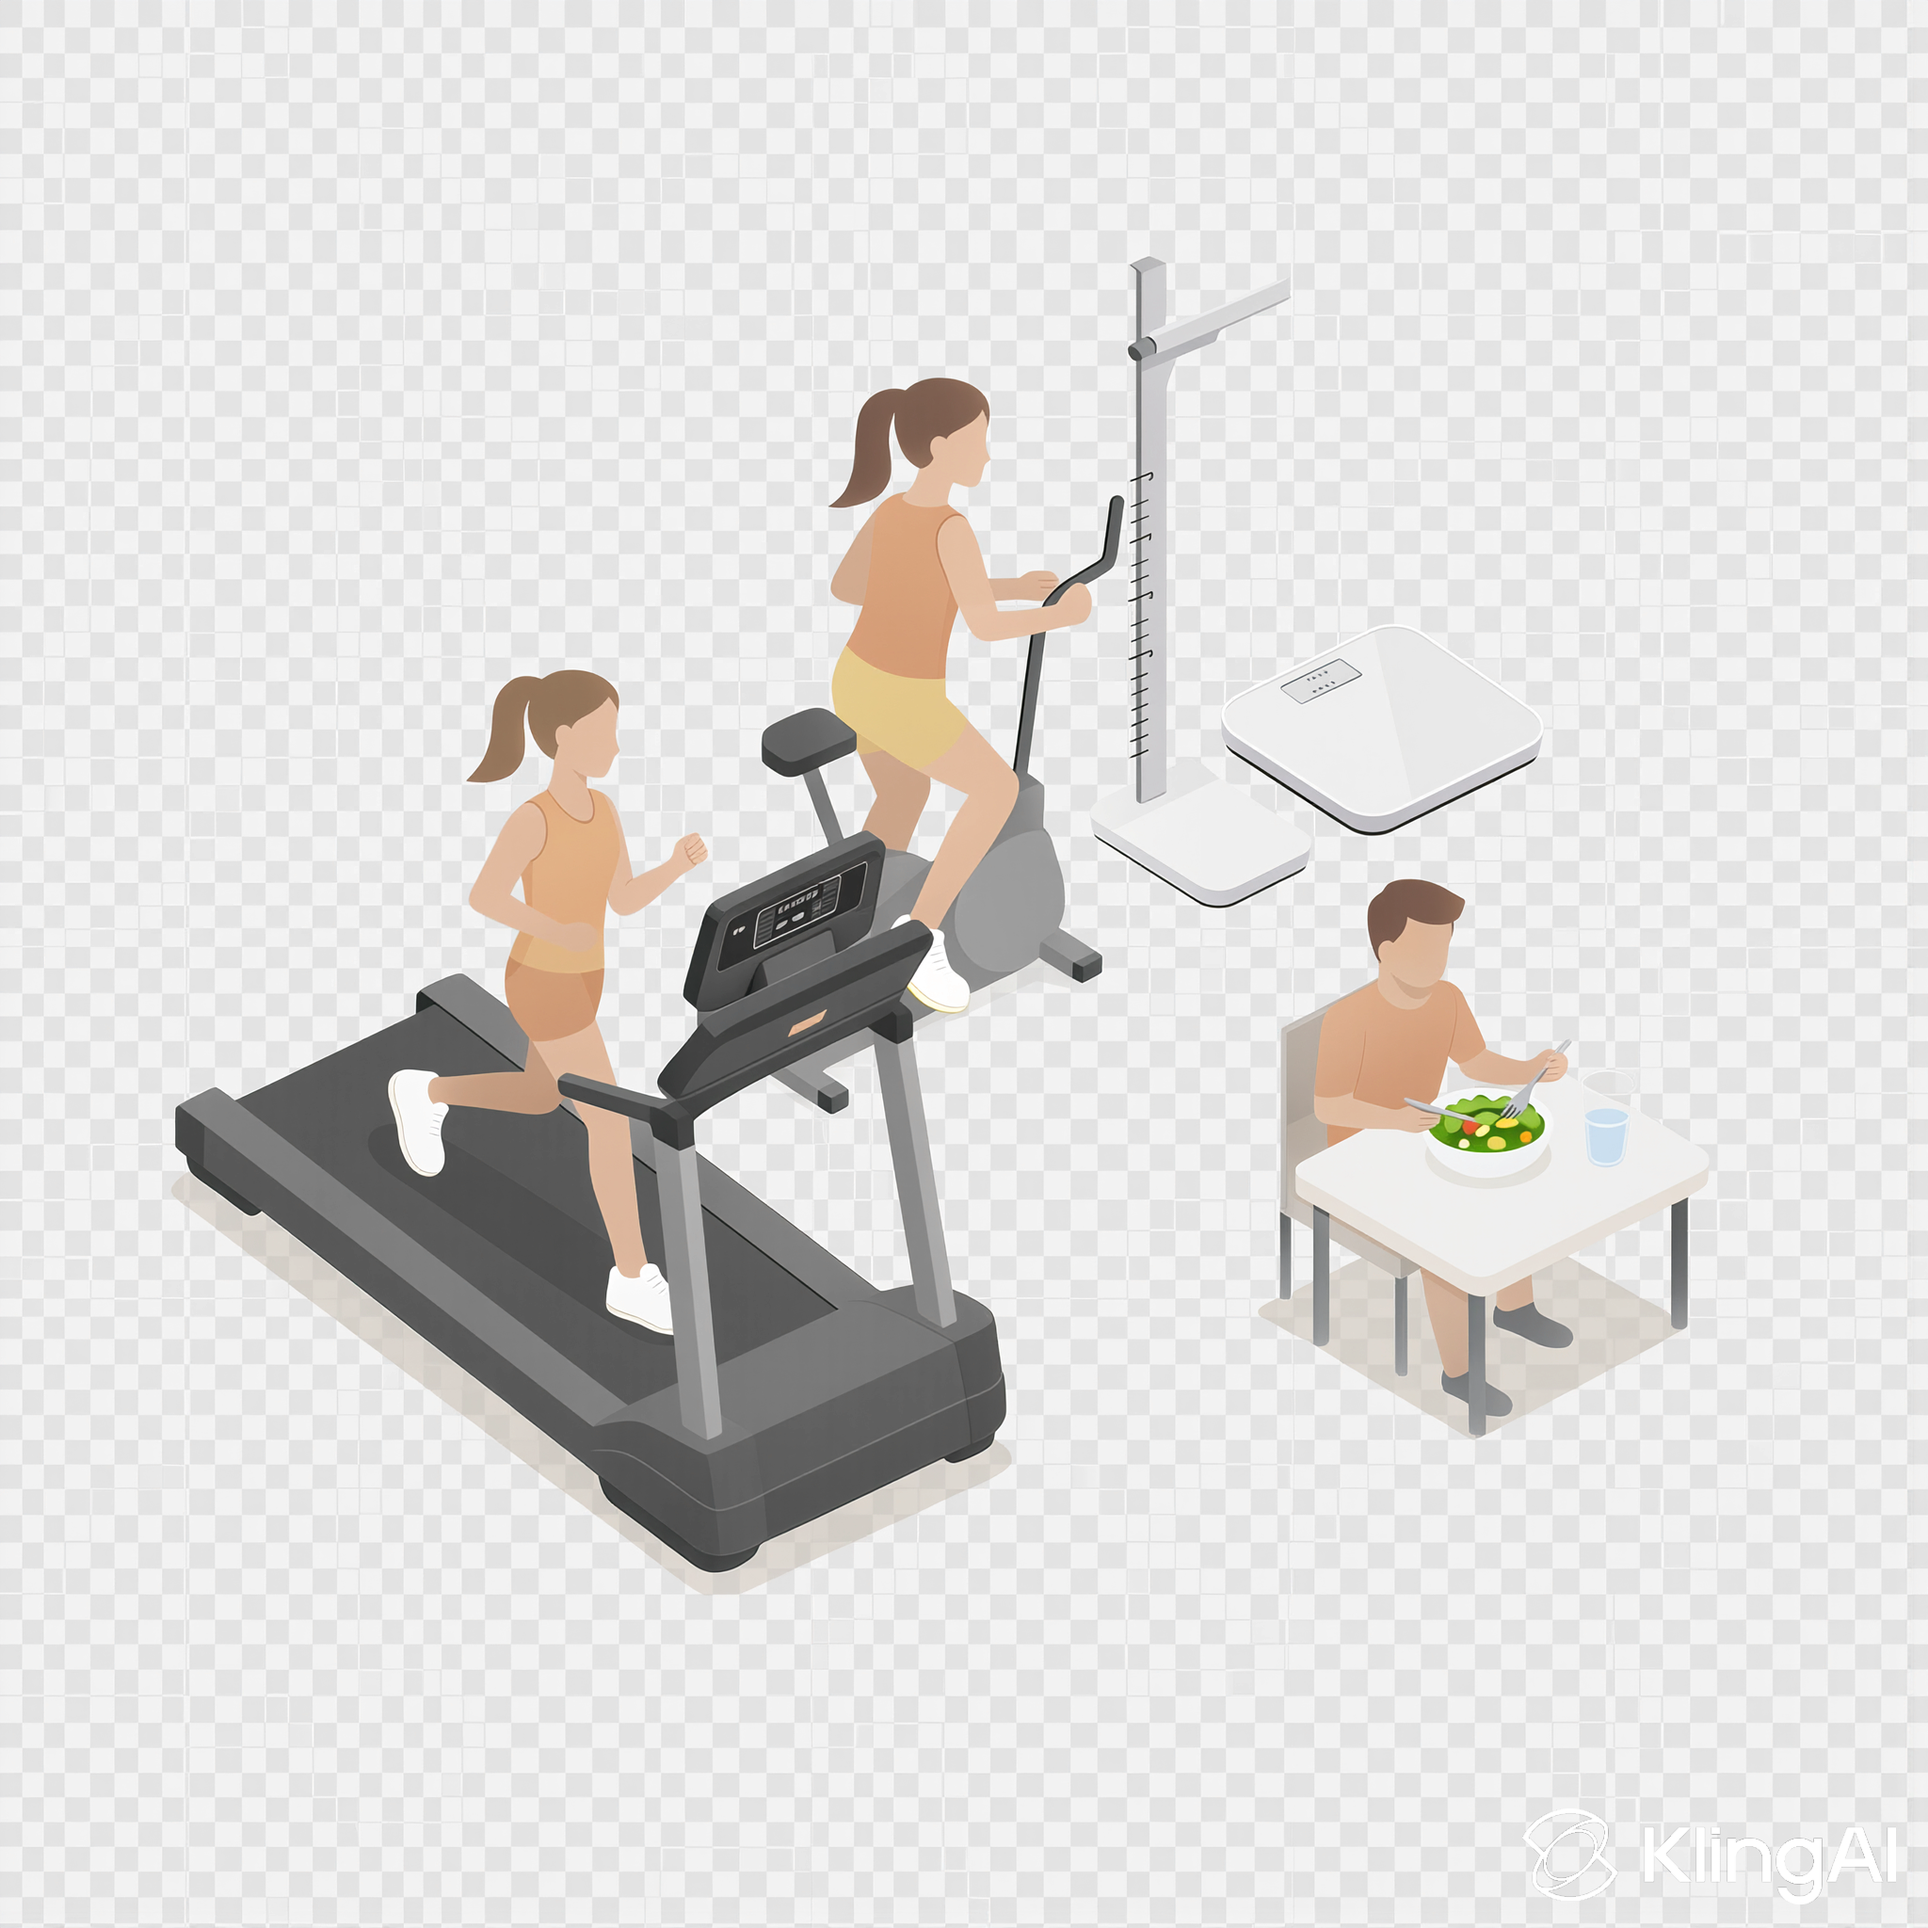
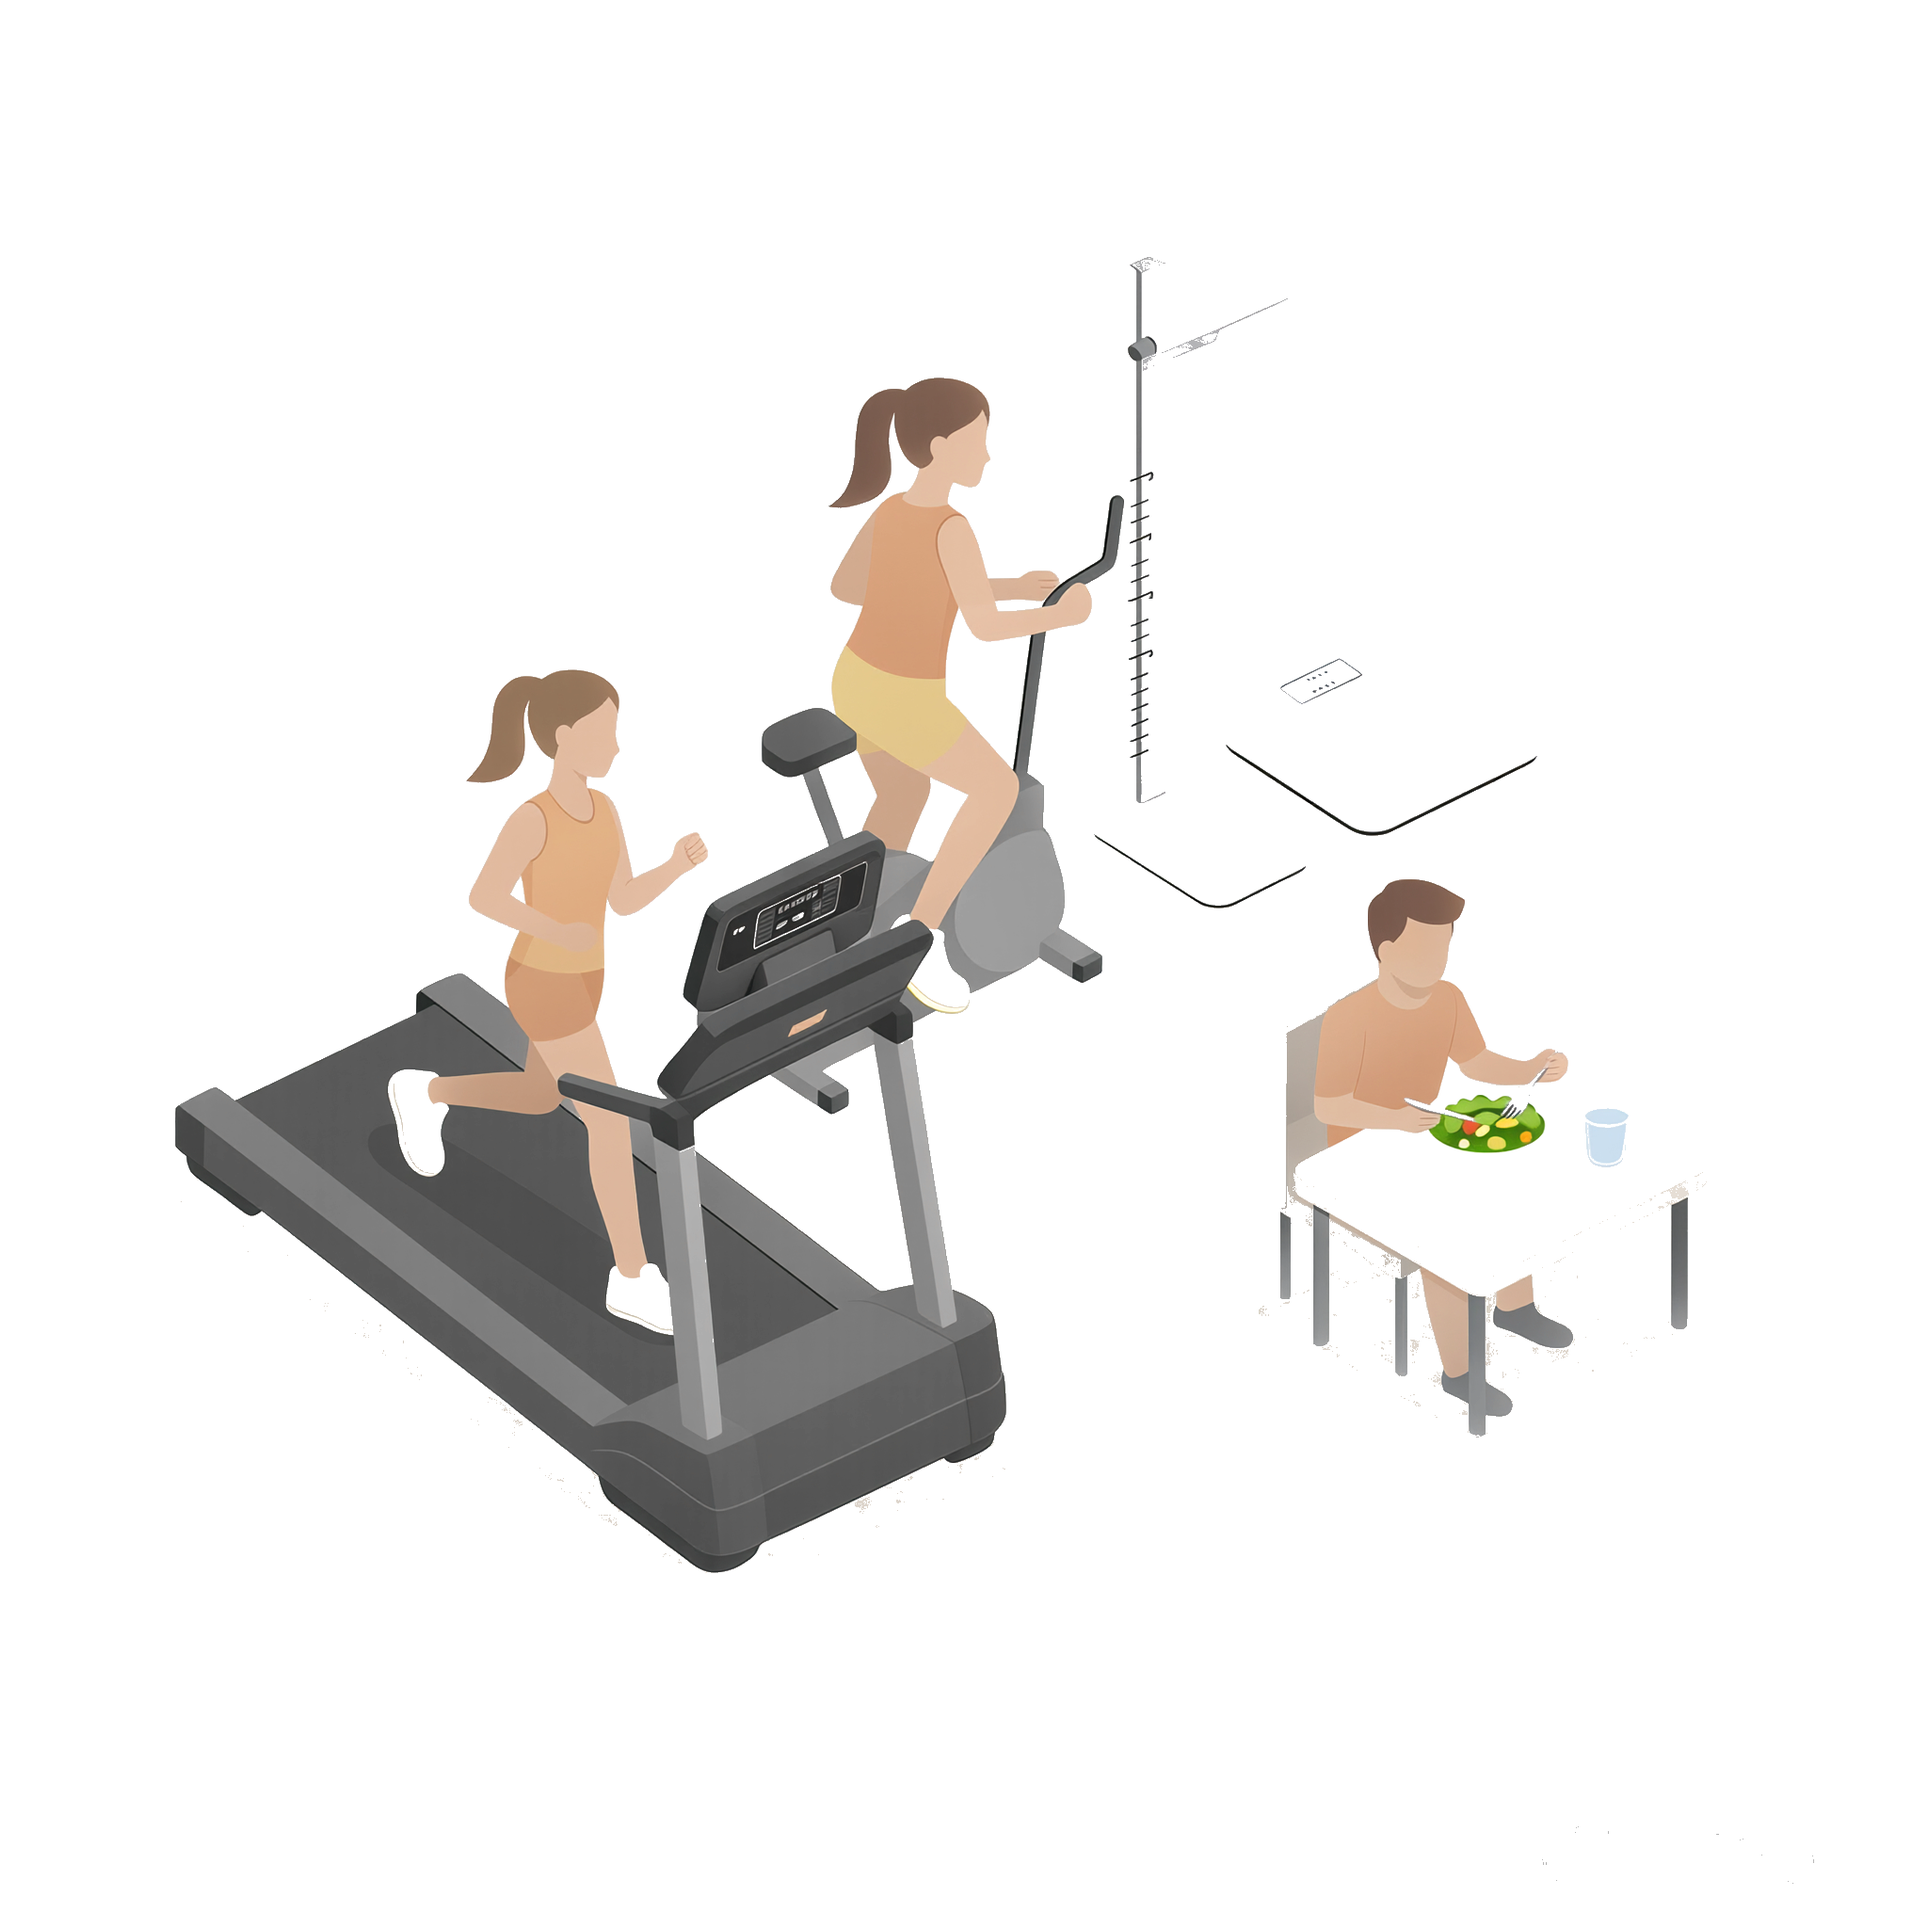
画像

diff --git a/app/page.tsx b/app/page.tsx
@@ -581,7 +581,7 @@ export default function Home() {
         <div className="grid items-center gap-4 md:grid-cols-2 md:gap-10">
           <div className="overflow-hidden rounded-lg border border-neutral-200 bg-white">
             <Image
-              src="/images/top.png"
+              src="/images/top.jpg"
               alt="Caloreco イラスト"
               width={2048}
               height={2048}
